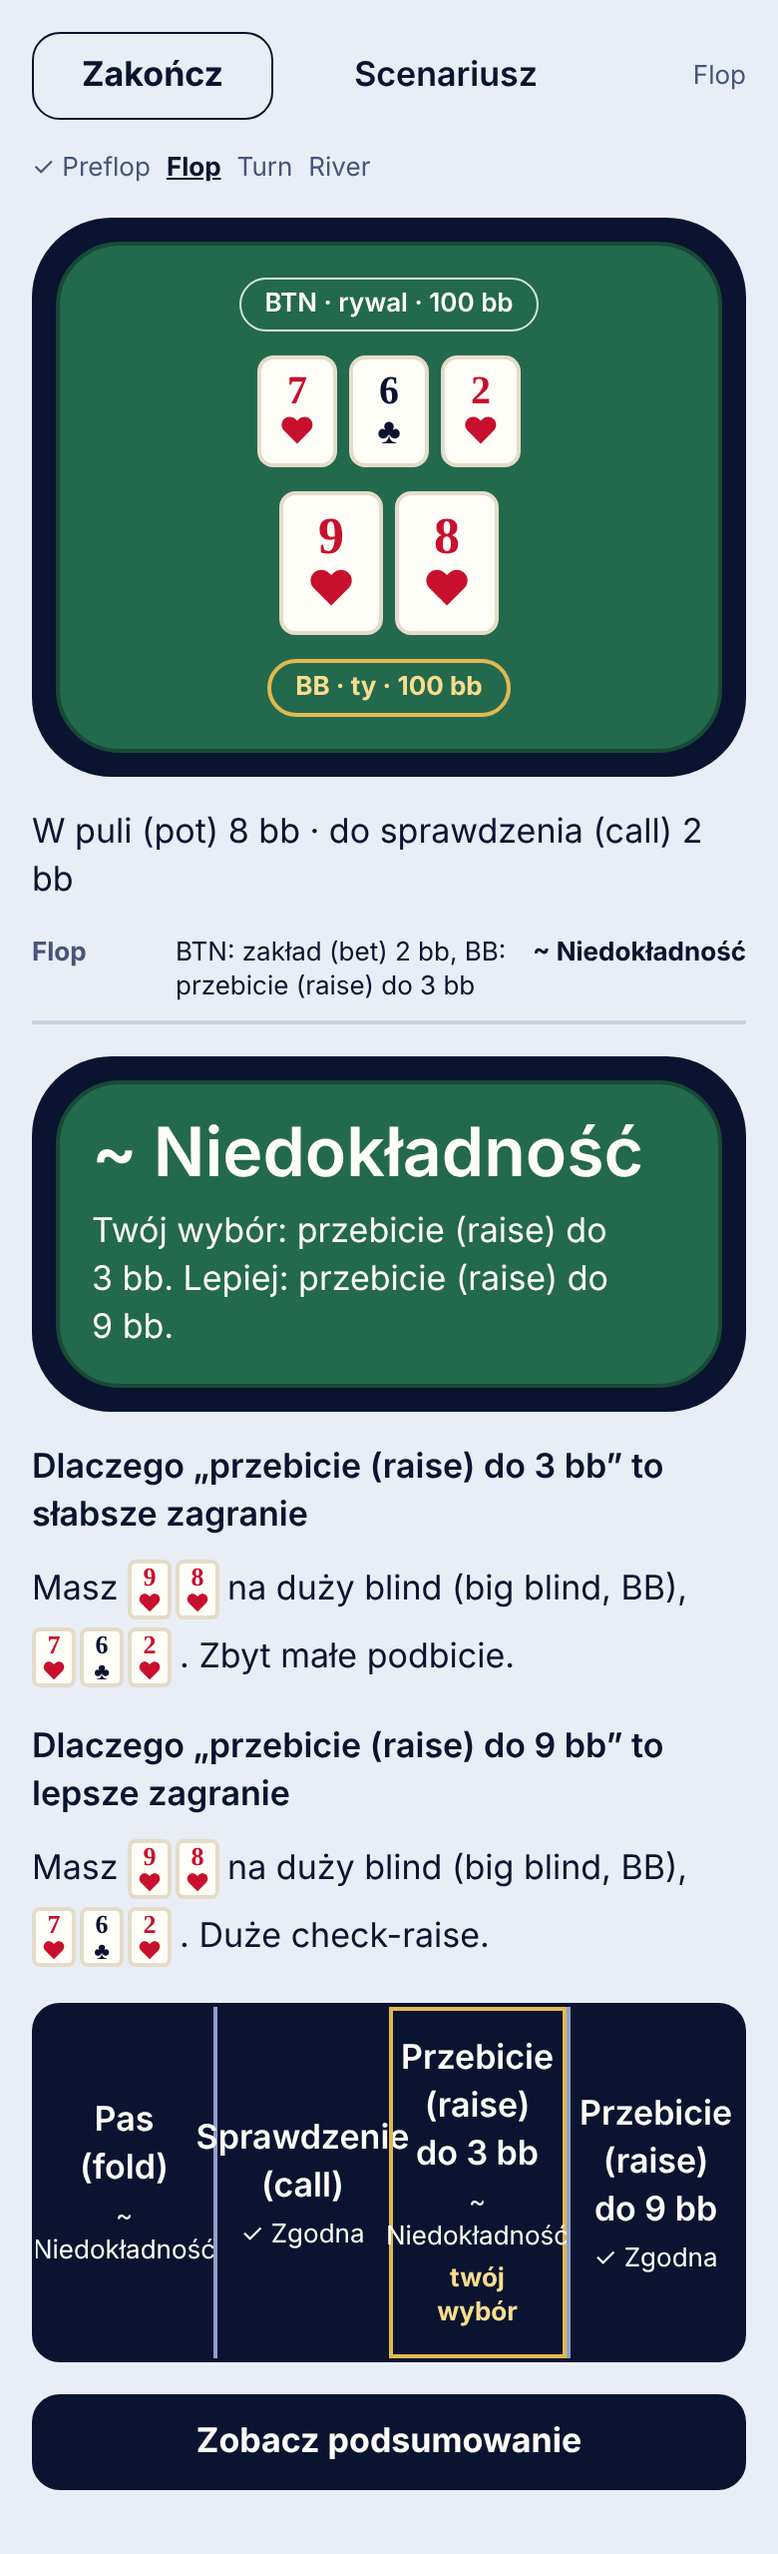
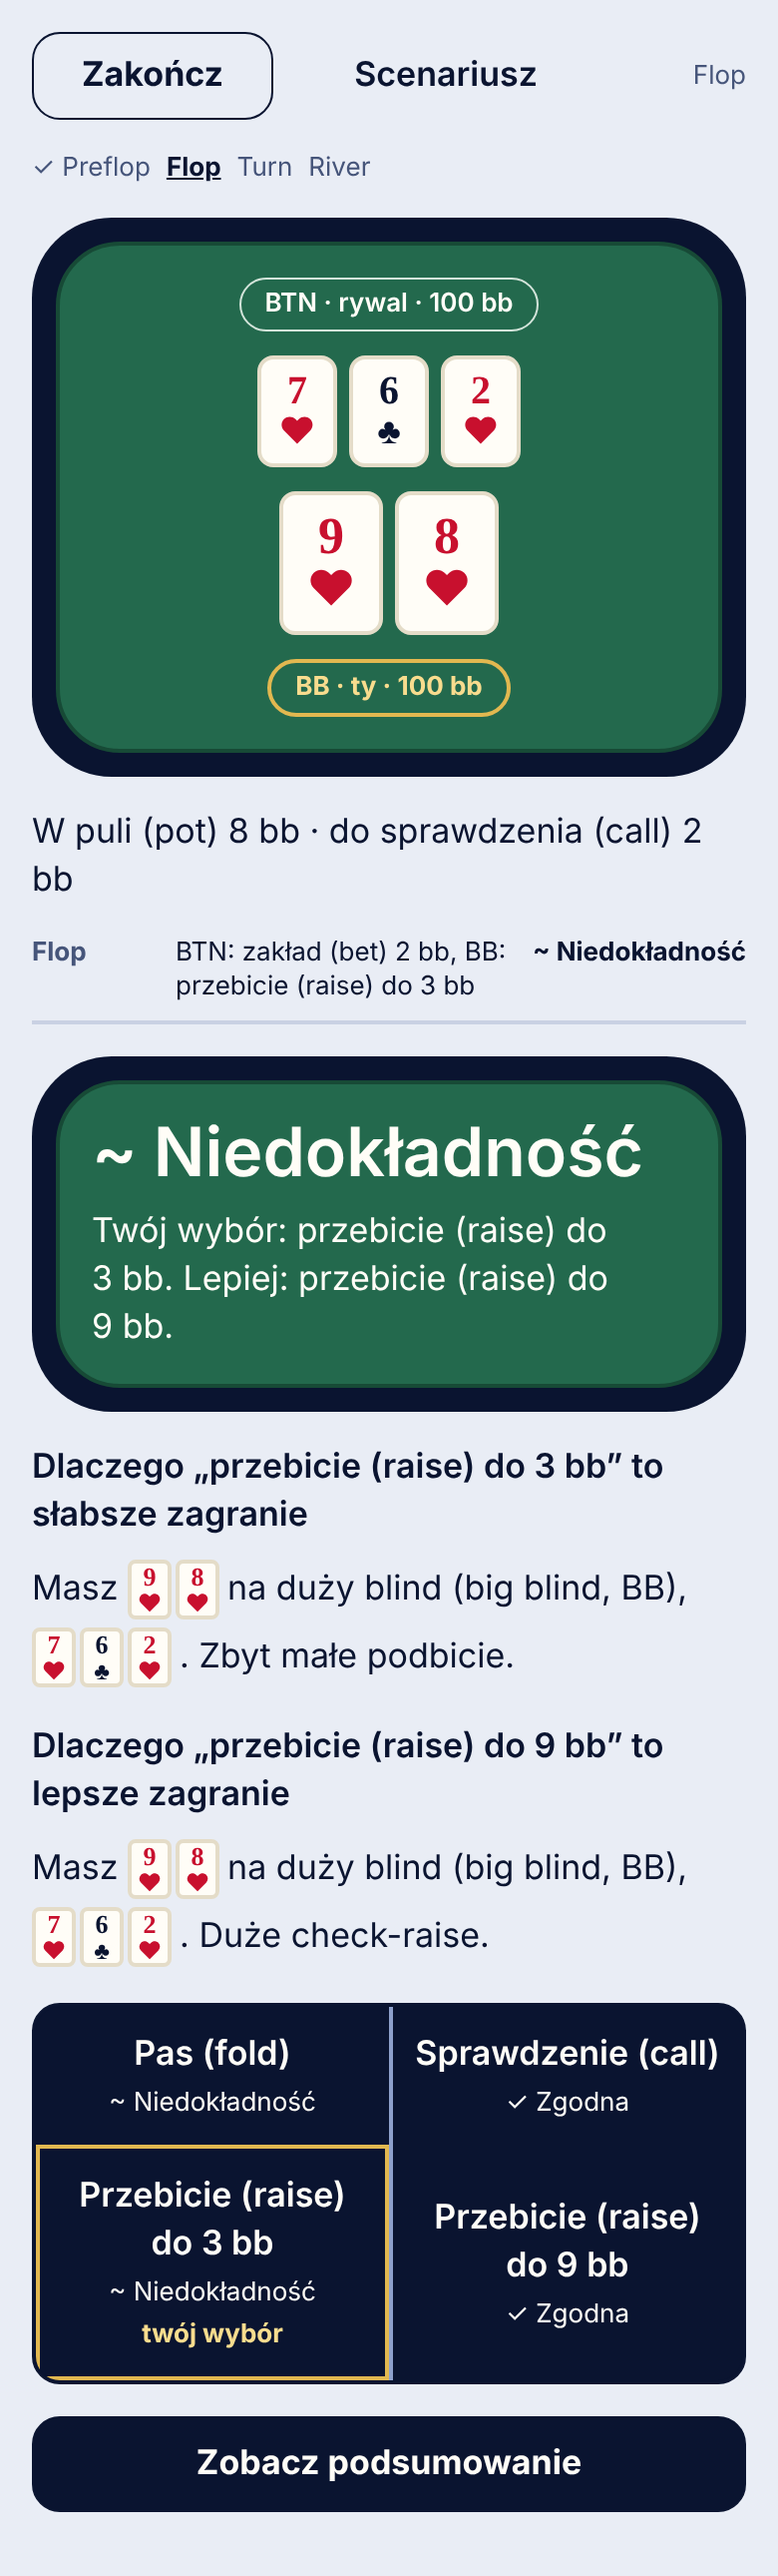
IB (D-1848): przy >3 segmentach pasek decyzji i pasek ocen zawijają się 2×2
Odpowiedź koordynatora na PYTANIE 4 (a). Check-raise (SC-16) ma 4 akcje;
4 segmenty po ~84 pt w jednym wierszu ucinały „Sprawdzenie” i
„Niedokładność” przy 390 pt. Wspólne wymiarSegmentu: przy >3 podstawa 40%
(dwa w wierszu), minWidth = podstawaSegmentu(fontScale) (przy AX5 jeden w
wierszu), do 3 segmentów bez zmian. Test ib-pasek-4-segmenty.test.tsx
(4 czerwone przed, 6/6 po; scenariusz+components+theme 614/614). Zrzuty
„przed” przemianowane na *-przed.png, „po” 390/320 domyślny i AX5.

Claude-Session: https://claude.ai/code/session_01T66VBwr9pSi5rXNnLi822L

diff --git a/apps/mobile/src/features/scenariusz/__tests__/ib-pasek-4-segmenty.test.tsx b/apps/mobile/src/features/scenariusz/__tests__/ib-pasek-4-segmenty.test.tsx
@@ -1,0 +1,51 @@
+/// <reference types="jest" />
+// IB (D-1848, koordynator: odpowiedź na PYTANIE 4): check-raise (SC-16) to pierwszy punkt z 4 akcjami. Przy >3 segmentach przyciski decyzji
+// (`PasekStrategii`) i pasek ocen (`PasekOcenAkcji`) zawijają się 2×2 tym samym mechanizmem flexWrap co przy dużym tekście: podstawa 40% szerokości
+// paska (dwa w wierszu), a minimalna szerokość = podstawaSegmentu(fontScale), więc przy AX5 nadal jeden segment w wierszu. Do 3 segmentów bez zmian.
+// Dowód wizualny: docs/design/dowody/ib-*-check-raise-*-po*.png (390 i 320, domyślny i AX5).
+import '@/i18n';
+import { PixelRatio, StyleSheet } from 'react-native';
+import { render, screen } from '@testing-library/react-native';
+import { PasekStrategii } from '@/components/PasekStrategii';
+import { podstawaSegmentu } from '@/theme/skalowanie';
+import { PasekOcenAkcji } from '../komponenty';
+
+type ReactTestInstance = NonNullable<ReturnType<typeof screen.getByText>['parent']>;
+jest.mock('react-native-safe-area-context', () => ({ useSafeAreaInsets: () => ({ top: 0, bottom: 0, left: 0, right: 0 }) }));
+
+const skala = (s: number) => jest.spyOn(PixelRatio, 'getFontScale').mockReturnValue(s);
+afterEach(() => jest.restoreAllMocks());
+const styl = (n: ReactTestInstance) => StyleSheet.flatten(typeof n.props.style === 'function' ? n.props.style({ pressed: false }) : n.props.style) ?? {};
+const segment = (nazwa: string): ReactTestInstance => {
+  for (let n: ReactTestInstance | null = screen.getByText(nazwa).parent; n; n = n.parent) if (styl(n).flexBasis !== undefined) return n;
+  throw new Error(`brak segmentu dla ${nazwa}`);
+};
+const CZTERY = ['Pas', 'Sprawdzenie 2 bb', 'Przebicie do 3 bb', 'Przebicie do 9 bb'];
+const TRZY = CZTERY.slice(0, 3);
+const decyzja = (nazwy: string[]) => render(<PasekStrategii opcje={nazwy.map((text) => ({ text }))} wybor={null} klasa="" onWybierz={jest.fn()} />);
+const AKCJE4 = { fold: 'niedokladnosc', call: 'zgodne', 'raise-small': 'niedokladnosc', 'raise-big': 'zgodne' } as const;
+const NAZWY4 = { fold: CZTERY[0]!, call: CZTERY[1]!, 'raise-small': CZTERY[2]!, 'raise-big': CZTERY[3]! };
+const ocena = (n: number) => render(<PasekOcenAkcji akcje={AKCJE4} wybor="raise-small" nazwy={Object.fromEntries(Object.entries(NAZWY4).slice(0, n))} />);
+
+describe('IB (D-1848): pasek z 4 segmentami zawija się 2×2', () => {
+  it.each([1, 3.12])('przyciski decyzji, 4 akcje, fontScale %s: podstawa 40%, minimalna szerokość = podstawaSegmentu(skala)', async (s) => {
+    skala(s);
+    await decyzja(CZTERY);
+    for (const n of CZTERY) expect(styl(segment(n))).toMatchObject({ flexBasis: '40%', minWidth: podstawaSegmentu(s) });
+  });
+  it('przyciski decyzji, 3 akcje: bez zmian (podstawa 70 pt, jeden wiersz)', async () => {
+    skala(1);
+    await decyzja(TRZY);
+    for (const n of TRZY) { expect(styl(segment(n)).flexBasis).toBe(podstawaSegmentu(1)); expect(styl(segment(n)).minWidth).toBeUndefined(); }
+  });
+  it.each([1, 3.12])('pasek ocen, 4 akcje, fontScale %s: podstawa 40%, minimalna szerokość = podstawaSegmentu(skala)', async (s) => {
+    skala(s);
+    await ocena(4);
+    for (const n of CZTERY) expect(styl(segment(n))).toMatchObject({ flexBasis: '40%', minWidth: podstawaSegmentu(s) });
+  });
+  it('pasek ocen, 3 akcje: bez zmian', async () => {
+    skala(1);
+    await ocena(3);
+    for (const n of TRZY) { expect(styl(segment(n)).flexBasis).toBe(podstawaSegmentu(1)); expect(styl(segment(n)).minWidth).toBeUndefined(); }
+  });
+});

diff --git a/apps/mobile/src/components/PasekStrategii.tsx b/apps/mobile/src/components/PasekStrategii.tsx
@@ -15,6 +15,14 @@ import { wykonajHaptyke } from '@/features/session/haptyka';
  */
 export type OpcjaPaskaUI = OpcjaPaska & { readonly pas?: boolean; /** Etykieta czytnika zamiast tekstu widocznego (np. nazwy kart zamiast „A♥ 4♥”). */ readonly etykieta?: string };
 const CEL_AKCJI = 64; // design-spec: akcje decyzji ≥ 64 pt
+/**
+ * IB (D-1848): wymiar segmentu paska. Do 3 segmentów podstawa = podstawaSegmentu(fontScale) (makieta e3). Przy >3 (check-raise: 4 akcje) cztery segmenty po ~84 pt
+ * w jednym wierszu ucinały słowa („Sprawdzenie”, „Niedokładność”), więc ten sam mechanizm flexWrap co przy dużym tekście: podstawa 40% (dwa w wierszu, 2×2),
+ * a minWidth = podstawaSegmentu(fontScale), więc przy dużym tekście nadal jeden segment w wierszu. Wspólne z `PasekOcenAkcji`.
+ */
+export function wymiarSegmentu(liczba: number, skala: number): { flexBasis: number | `${number}%`; minWidth?: number } {
+  return liczba > 3 ? { flexBasis: '40%', minWidth: podstawaSegmentu(skala) } : { flexBasis: podstawaSegmentu(skala) };
+}
 
 function useOgraniczRuch(): boolean {
   const [on, ustaw] = useState(false);
@@ -59,7 +67,7 @@ export function PasekStrategii({
             }}
             style={({ pressed }) => [
               styles.przycisk,
-              { flexBasis: podstawaSegmentu(PixelRatio.getFontScale()), minHeight: CEL_AKCJI, borderLeftWidth: i === 0 ? 0 : StyleSheet.hairlineWidth * 2, borderColor: tk.actionEdge, opacity: pressed ? 0.85 : 1 },
+              { ...wymiarSegmentu(opcje.length, PixelRatio.getFontScale()), minHeight: CEL_AKCJI, borderLeftWidth: i === 0 ? 0 : StyleSheet.hairlineWidth * 2, borderColor: tk.actionEdge, opacity: pressed ? 0.85 : 1 },
             ]}
           >
             <Text style={[styl.naglowek, { color: tk.actionInk, textAlign: 'center' }]}>{o.text}</Text>

diff --git a/apps/mobile/src/features/scenariusz/komponenty.tsx b/apps/mobile/src/features/scenariusz/komponenty.tsx
@@ -6,7 +6,7 @@ import { CardRow } from '@/components/PlayingCard';
 import { RichText } from '@/components/RichText';
 import StopienOceny, { ZNAK } from '@/features/ocena/StopienOceny';
 import { nazwaKarty } from '@/features/stol/uklad';
-import { podstawaSegmentu } from '@/theme/skalowanie';
+import { wymiarSegmentu } from '@/components/PasekStrategii';
 import { odstep, promien, styl, useTokens } from '@/theme/tokens';
 import type { Blok, RodzajBloku, UkladIcm } from './wariant';
 import type { Akcja } from './wariant';
@@ -100,7 +100,7 @@ export function PasekOcenAkcji({ akcje, wybor, nazwy, etykiety }: { akcje: Reado
   return (
     <View accessible accessibilityRole="image" accessibilityLabel={t('scenario.scale.label', { lista })} style={[styles.pasekOcen, { backgroundColor: tk.actionBg, borderColor: tk.actionOutline }]}>
       {wpisy.map(({ a, o }, i) => (
-        <View key={a} style={[styles.segmentOceny, { flexBasis: podstawaSegmentu(PixelRatio.getFontScale()), borderColor: a === wybor ? tk.gold : tk.actionEdge, borderWidth: a === wybor ? 2 : 0, borderLeftWidth: a === wybor ? 2 : i === 0 ? 0 : StyleSheet.hairlineWidth * 2 }]}>
+        <View key={a} style={[styles.segmentOceny, { ...wymiarSegmentu(wpisy.length, PixelRatio.getFontScale()), borderColor: a === wybor ? tk.gold : tk.actionEdge, borderWidth: a === wybor ? 2 : 0, borderLeftWidth: a === wybor ? 2 : i === 0 ? 0 : StyleSheet.hairlineWidth * 2 }]}>
           <Text style={[styl.naglowek, { color: tk.actionInk, textAlign: 'center' }]}>{nazwy[a]}</Text>
           <Text style={[styl.drobny, { color: tk.actionInk, textAlign: 'center' }]}>{`${ZNAK[o]} ${t(`grade.${o}`)}`}</Text>
           {a === wybor ? <Text style={[styl.drobny, { color: tk.goldText, fontWeight: '700', textAlign: 'center' }]}>{t('scenario.scale.yourChoice')}</Text> : null}
